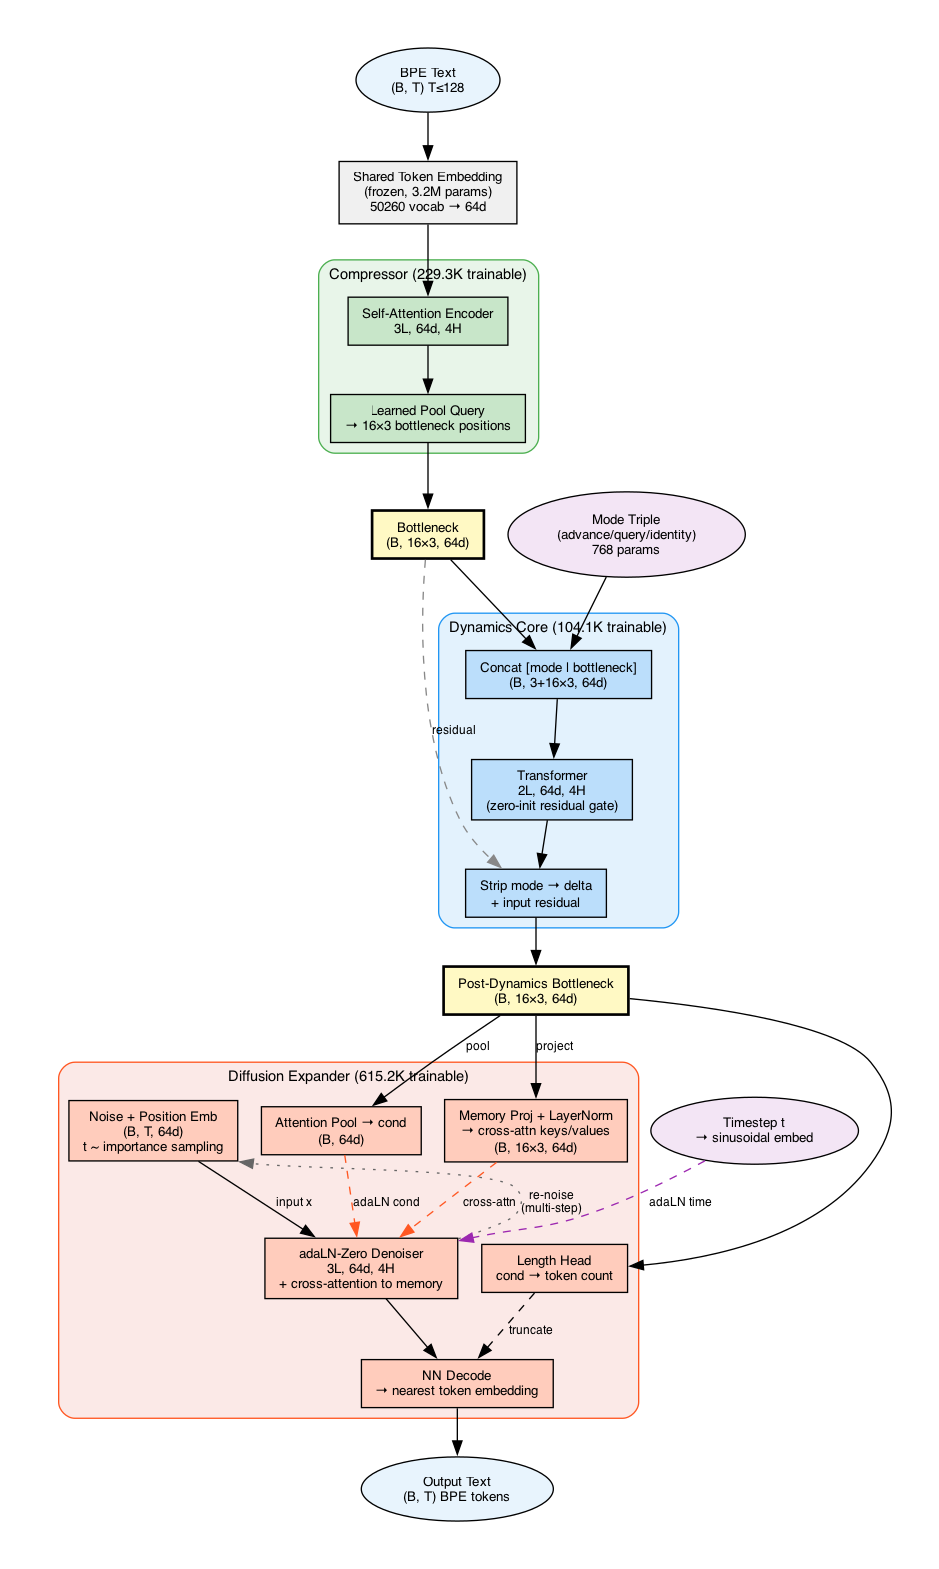
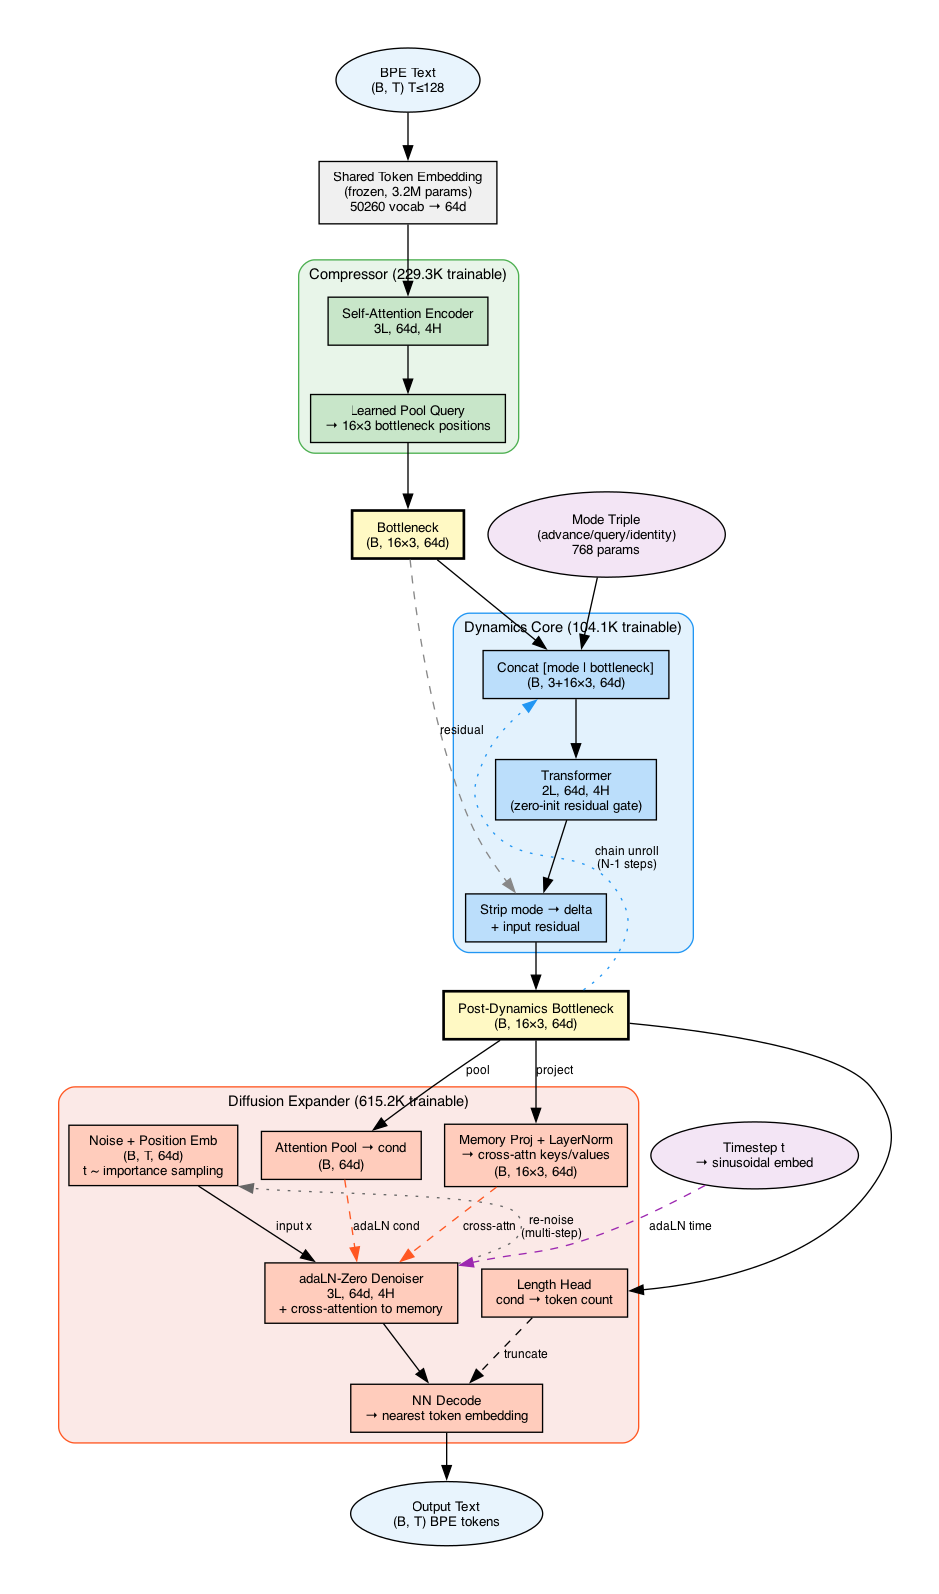
Add dynamics chain unrolling loop to architecture diagram
Shows the dotted feedback path from post-dynamics bottleneck back
to dynamics input for multi-step chain training/inference.

Changed region(s): [[0.0618, 0.0312, 0.9574, 0.9681], [0.803, 0.7808, 0.8339, 0.812], [0.7721, 0.6246, 0.803, 0.6558]]

diff --git a/scripts/visualize_architecture.py b/scripts/visualize_architecture.py
@@ -141,6 +141,10 @@ def build_graph(model):
     g.edge("bottleneck", "dyn_strip", style="dashed", label="residual",
            color="#888888")
 
+    # Chain unrolling: post-dynamics bottleneck feeds back into dynamics
+    g.edge("bn_post", "dyn_cat", label="chain unroll\n(N-1 steps)",
+           style="dotted", color="#2196F3", constraint="false")
+
     # Expander flow
     g.edge("bn_post", "exp_pool", label="pool")
     g.edge("bn_post", "exp_memory", label="project")
